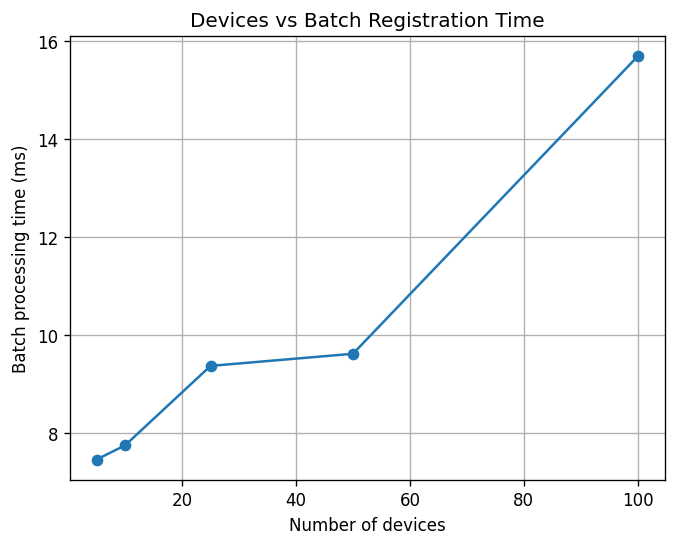
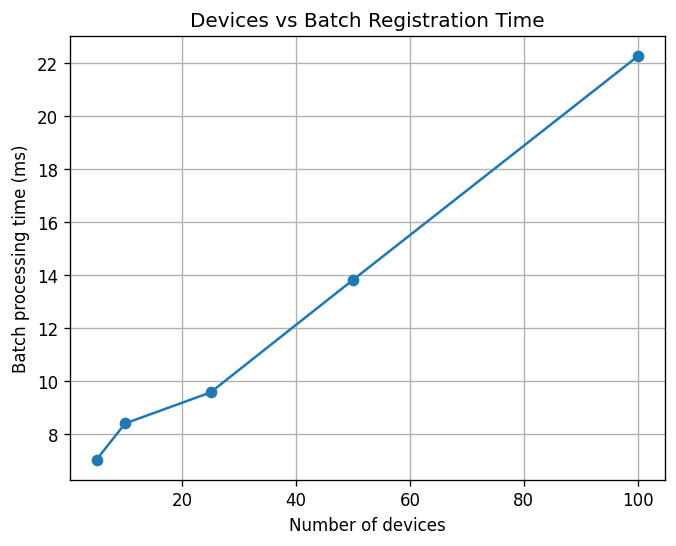
Add batch vs individual comparison + partner module integration

diff --git a/fog/server.py b/fog/server.py
@@ -3,7 +3,9 @@ from flask import Flask, request, jsonify
 from fog.crypto import hex_to_pubkey, verify
 from fog.models import DeviceIdentity
 from fog.crypto import generate_keypair, sign
-from fog.merkle import hash_leaf, build_tree, get_root, get_proof, verify_proof     
+from fog.merkle import hash_leaf, build_tree, get_root, get_proof, verify_proof  
+from fog.policy import is_allowed   
+from fog.token import issue_token, validate_token
 import hashlib, json
 
 FOG_SK, FOG_PK = generate_keypair()
@@ -11,15 +13,6 @@ ANCHOR_CHAIN = []   # [{epoch, root_hex, ts, prev_hash, anchor_hash}]
 TOKEN_TTL = 300  # 5 minutes for demo
 USED_REQUEST_NONCES = set()
 REVOKED_DEVICES = set()   # DIDs blocked from future epochs
-
-# role -> {resource: [allowed operations]}
-POLICY = {
-    "temperature-sensor": {"temperature": ["WRITE", "READ"]},
-    "pressure-sensor":    {"pressure":    ["WRITE", "READ"]},
-    "valve-controller":   {"valve":       ["WRITE", "READ"],
-                            "production-line": ["STOP"]},
-    "camera":             {"stream":      ["READ"]},
-}
 
 app = Flask(__name__)
 
@@ -200,19 +193,9 @@ def token_issue():
     if PENDING_REGISTRATIONS[did].pk != pk_hex:
         return jsonify({"ok": False, "msg": "pk mismatch"}), 401
 
-    now = time.time()
-    token_id = uuid.uuid4().hex
-    expires_at = now + TOKEN_TTL
-
-    payload = f"{did}|{pk_hex}|{scope}|{now}|{expires_at}|{token_id}".encode()
-    sig = sign(FOG_SK, payload)
-
-    TOKENS[token_id] = {
-        "did": did, "pk_hex": pk_hex, "scope": scope,
-        "issued_at": now, "expires_at": expires_at,
-        "token_id": token_id, "fog_signature_hex": sig.hex(),
-    }
-    return jsonify({"ok": True, "token": TOKENS[token_id]})
+    tok = issue_token(did, pk_hex, scope, FOG_SK)
+    TOKENS[tok["token_id"]] = tok
+    return jsonify({"ok": True, "token": tok})
 
 @app.route("/resource/request", methods=["POST"])
 def resource_request():
@@ -237,10 +220,9 @@ def resource_request():
 
     # 2. token checks
     tok = TOKENS.get(token_id)
-    if not tok:                                    return deny("token not found")
-    if token_id in REVOCATIONS:                    return deny("token revoked")
-    if tok["did"] != did or tok["pk_hex"] != pk_hex: return deny("token/device mismatch")
-    if time.time() > tok["expires_at"]:            return deny("token expired")
+    ok, reason = validate_token(tok, did, pk_hex, set(REVOCATIONS.keys()))
+    if not ok:
+        return deny(reason)
 
     # 3. recompute leaf + verify proof
     leaf = hash_leaf(did, pk_hex)
@@ -262,8 +244,7 @@ def resource_request():
 
     # 5. policy
     role = PENDING_REGISTRATIONS[did].metadata.get("type")
-    allowed = POLICY.get(role, {}).get(resource, [])
-    if operation not in allowed:
+    if not is_allowed(role, resource, operation):
         return deny(f"policy: {role} cannot {operation} {resource}")
 
     return allow()

diff --git a/perf/batch_vs_individual.py b/perf/batch_vs_individual.py
@@ -1,0 +1,54 @@
+"""Batch vs individual registration comparison.
+
+Simulates N devices arriving one at a time and compares:
+  - Individual: rebuild Merkle tree + root after EACH device
+  - Batch:      collect all leaves, build tree + root ONCE
+"""
+import time, statistics
+from fog.merkle import build_tree, get_root, get_proof, hash_leaf
+
+DEVICE_COUNTS = [5, 10, 25, 50, 100, 200]
+RUNS = 5
+
+
+def make_leaves(n):
+    return [hash_leaf(f"did:iiot:dev-{i:04d}", f"pk-{i:04d}") for i in range(n)]
+
+
+def individual_run(n):
+    leaves = make_leaves(n)
+    t0 = time.perf_counter()
+    current = []
+    for leaf in leaves:
+        current.append(leaf)
+        levels = build_tree(current)
+        _ = get_root(levels)
+    return (time.perf_counter() - t0) * 1000
+
+
+def batch_run(n):
+    leaves = make_leaves(n)
+    t0 = time.perf_counter()
+    levels = build_tree(leaves)
+    _ = get_root(levels)
+    for leaf in leaves:
+        _ = get_proof(levels, leaf)
+    return (time.perf_counter() - t0) * 1000
+
+
+def main():
+    print(f"{'n':>5} | {'individual ms':>15} | {'batch ms':>10} | "
+          f"{'speedup':>8} | {'indiv root updates':>18} | "
+          f"{'indiv stale proofs':>18}")
+    print("-" * 95)
+    for n in DEVICE_COUNTS:
+        ind_ms = statistics.mean(individual_run(n) for _ in range(RUNS))
+        bat_ms = statistics.mean(batch_run(n) for _ in range(RUNS))
+        speedup = ind_ms / bat_ms if bat_ms > 0 else 0
+        stale = n * (n - 1) // 2
+        print(f"{n:>5} | {ind_ms:>15.1f} | {bat_ms:>10.1f} | "
+              f"{speedup:>8.1f}x | {n:>18} | {stale:>18}")
+
+
+if __name__ == "__main__":
+    main()

diff --git a/PROJECT_STATE.md b/PROJECT_STATE.md
@@ -14,6 +14,8 @@ Merkle tree (SMT in Assignment 2).
 - fog/models.py       — DeviceIdentity, ProofPackage, Token, Revocation
 - fog/server.py       — Flask endpoints (register working; batch/token/verify/revoke stubbed)
 - device/test_register.py, test_batch.py, test_token.py, test_verify.py, test_revoke.py
+- perf/batch_vs_individual.py
+- data/batch_vs_individual.txt
 - PROJECT_STATE.md
 - README.md
 - .gitignore
@@ -27,8 +29,9 @@ Merkle tree (SMT in Assignment 2).
 - [x] Step 6: Temporary token
 - [x] Step 7: Verification pipeline (leaf → root → proof → token → policy)
 - [x] Step 8: Revocation
-- [ ] Step 9: 3+ attacks
-- [ ] Step 10: Perf + graphs + report
+- [x] Step 9: 3+ attacks
+- [x] Step 10: Perf + graphs + report
+- [x] Batch vs Individual comparison (perf/batch_vs_individual.py)
 
 ## Contribution split (2 people)
 - You: crypto, merkle, server core, batch, verify, attacks, perf
